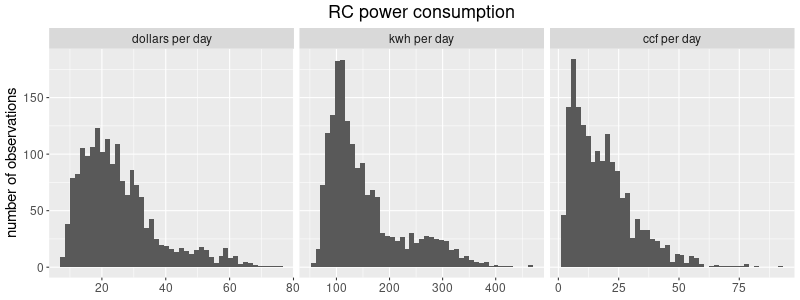
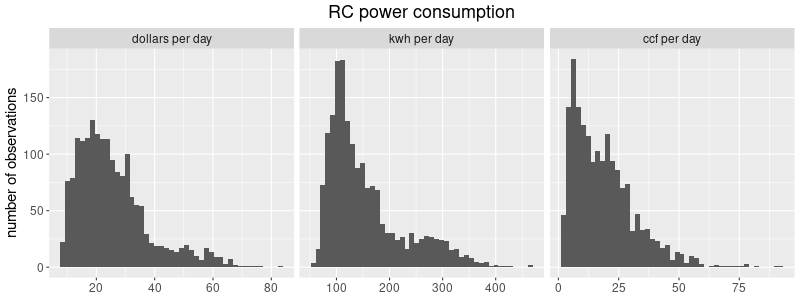
auto commit

diff --git a/index.html b/index.html
@@ -3,7 +3,7 @@
 "http://www.w3.org/TR/xhtml1/DTD/xhtml1-strict.dtd">
 <html xmlns="http://www.w3.org/1999/xhtml" lang="en" xml:lang="en">
 <head>
-<!-- 2023-01-16 Mon 05:14 -->
+<!-- 2023-03-19 Sun 05:24 -->
 <meta http-equiv="Content-Type" content="text/html;charset=utf-8" />
 <meta name="viewport" content="width=device-width, initial-scale=1" />
 <title>Chapin Mill Energy</title>
@@ -193,38 +193,49 @@
     { background-color: #ffff00; color: #000000; font-weight: bold; }
   .org-svg { }
 </style>
-<script type="text/x-mathjax-config">
-    MathJax.Hub.Config({
-        displayAlign: "center",
-        displayIndent: "0em",
-
-        "HTML-CSS": { scale: 100,
-                        linebreaks: { automatic: "false" },
-                        webFont: "TeX"
-                       },
-        SVG: {scale: 100,
-              linebreaks: { automatic: "false" },
-              font: "TeX"},
-        NativeMML: {scale: 100},
-        TeX: { equationNumbers: {autoNumber: "AMS"},
-               MultLineWidth: "85%",
-               TagSide: "right",
-               TagIndent: ".8em"
-             }
-});
+<script>
+  window.MathJax = {
+    tex: {
+      ams: {
+        multlineWidth: '85%'
+      },
+      tags: 'ams',
+      tagSide: 'right',
+      tagIndent: '.8em'
+    },
+    chtml: {
+      scale: 1.0,
+      displayAlign: 'center',
+      displayIndent: '0em'
+    },
+    svg: {
+      scale: 1.0,
+      displayAlign: 'center',
+      displayIndent: '0em'
+    },
+    output: {
+      font: 'mathjax-modern',
+      displayOverflow: 'overflow'
+    }
+  };
 </script>
-<script src="https://cdnjs.cloudflare.com/ajax/libs/mathjax/2.7.0/MathJax.js?config=TeX-AMS_HTML"></script>
+
+<script
+  id="MathJax-script"
+  async
+  src="https://cdn.jsdelivr.net/npm/mathjax@3/es5/tex-mml-chtml.js">
+</script>
 </head>
 <body>
 <div id="content" class="content">
 <h1 class="title">Chapin Mill Energy</h1>
-<div id="outline-container-org8f8fd15" class="outline-2">
-<h2 id="org8f8fd15">Energy Comparisons</h2>
-<div class="outline-text-2" id="text-org8f8fd15">
+<div id="outline-container-org00c6984" class="outline-2">
+<h2 id="org00c6984">Energy Comparisons</h2>
+<div class="outline-text-2" id="text-org00c6984">
 </div>
-<div id="outline-container-org07033db" class="outline-3">
-<h3 id="org07033db">Energy Consumption and Weather</h3>
-<div class="outline-text-3" id="text-org07033db">
+<div id="outline-container-org66fa080" class="outline-3">
+<h3 id="org66fa080">Energy Consumption and Weather</h3>
+<div class="outline-text-3" id="text-org66fa080">
 <p>
 The plot below describes outdoor air temperatures and the rate of
 retreat center energy consumption for the past few months. These
@@ -261,7 +272,7 @@ energy consumption.
 </p>
 
 
-<div id="org68b28ba" class="figure">
+<div id="orgafc4468" class="figure">
 <p><img src="energy.png" alt="energy.png" />
 </p>
 </div>
@@ -277,7 +288,7 @@ patterns.
 </p>
 
 
-<div id="org18c377b" class="figure">
+<div id="org1c6e862" class="figure">
 <p><img src="dollars.png" alt="dollars.png" />
 </p>
 </div>
@@ -292,17 +303,17 @@ dollar cost&#x2014;over all times of the year and over all events.
 </p>
 
 
-<div id="org37048b6" class="figure">
+<div id="org192cf7a" class="figure">
 <p><img src="hist.png" alt="hist.png" />
 </p>
 </div>
 
 <p>
 To be slightly more precise, 95% of the time the observed
-electricity power consumption was less than <code>308</code>
+electricity power consumption was less than <code>309</code>
 kWh per day, gas consumption was less than
 <code>44</code> hundred cubic feet per day and the
-overall energy cost was less than <code>52</code> dollars per
+overall energy cost was less than <code>53</code> dollars per
 day.
 </p>
 
@@ -329,7 +340,7 @@ within 45 and 60 dollars.
 </p>
 
 
-<div id="orgc35cd0a" class="figure">
+<div id="orge03089d" class="figure">
 <p><img src="regime.png" alt="regime.png" />
 </p>
 </div>
@@ -359,7 +370,7 @@ heated for sesshin setup.)
 </p>
 
 
-<div id="orgaef9295" class="figure">
+<div id="orgcb1e5f9" class="figure">
 <p><img src="energy2.png" alt="energy2.png" />
 </p>
 </div>
@@ -375,7 +386,7 @@ value is the average of the temperature readings over that period.
 </p>
 
 
-<div id="org434cfd2" class="figure">
+<div id="orgb5bf912" class="figure">
 <p><img src="scatter.png" alt="scatter.png" />
 </p>
 </div>
@@ -389,9 +400,9 @@ the results would not be very interesting.
 </div>
 </div>
 
-<div id="outline-container-orga3ed8e0" class="outline-3">
-<h3 id="orga3ed8e0">Natural gas</h3>
-<div class="outline-text-3" id="text-orga3ed8e0">
+<div id="outline-container-orgfc70ff1" class="outline-3">
+<h3 id="orgfc70ff1">Natural gas</h3>
+<div class="outline-text-3" id="text-orgfc70ff1">
 <p>
 For a given level of occupancy of the retreat center it would be
 natural to consider gas consumption as consisting of two parts:
@@ -423,7 +434,7 @@ scaling factors relate gas consumption in ccf (100s of cubic feet)
 per day to degrees Fahrenheit. 95% confidence intervals are
 </p>
 
-<div id="anyzsqsvoc" style="padding-left:0px;padding-right:0px;padding-top:10px;padding-bottom:10px;overflow-x:auto;overflow-y:auto;width:auto;height:auto;">
+<div id="cpznkwzumz" style="padding-left:0px;padding-right:0px;padding-top:10px;padding-bottom:10px;overflow-x:auto;overflow-y:auto;width:auto;height:auto;">
 
   <table class="gt_table" style="font-family: -apple-system, BlinkMacSystemFont, 'Segoe UI', Roboto, Oxygen, Ubuntu, Cantarell, 'Helvetica Neue', 'Fira Sans', 'Droid Sans', Arial, sans-serif; display: table; border-collapse: collapse; margin-left: auto; margin-right: auto; color: #333333; font-size: 16px; font-weight: normal; font-style: normal; background-color: #FFFFFF; width: auto; border-top-style: solid; border-top-width: 2px; border-top-color: #A8A8A8; border-right-style: none; border-right-width: 2px; border-right-color: #D3D3D3; border-bottom-style: solid; border-bottom-width: 2px; border-bottom-color: #A8A8A8; border-left-style: none; border-left-width: 2px; border-left-color: #D3D3D3;" bgcolor="#FFFFFF">
   <thead class="gt_header">
@@ -491,16 +502,16 @@ predictions for times that are either idle, sesshin, SIMT or UR.)
 </p>
 
 
-<div id="org20bec75" class="figure">
+<div id="org3edb2e4" class="figure">
 <p><img src="diagnostic.png" alt="diagnostic.png" />
 </p>
 </div>
 </div>
 </div>
 
-<div id="outline-container-orgc76a65a" class="outline-3">
-<h3 id="orgc76a65a">Electricity</h3>
-<div class="outline-text-3" id="text-orgc76a65a">
+<div id="outline-container-org8feaf35" class="outline-3">
+<h3 id="org8feaf35">Electricity</h3>
+<div class="outline-text-3" id="text-org8feaf35">
 <p>
 For the period under consideration electricity usage did not vary
 with outside air temperature in a significant way. The data only
@@ -508,7 +519,7 @@ established separate estimates of electricity consumption in kWh
 per day for idle and occupied periods.
 </p>
 
-<div id="gglihdkzpj" style="padding-left:0px;padding-right:0px;padding-top:10px;padding-bottom:10px;overflow-x:auto;overflow-y:auto;width:auto;height:auto;">
+<div id="gkaihqiehp" style="padding-left:0px;padding-right:0px;padding-top:10px;padding-bottom:10px;overflow-x:auto;overflow-y:auto;width:auto;height:auto;">
 
   <table class="gt_table" style="font-family: -apple-system, BlinkMacSystemFont, 'Segoe UI', Roboto, Oxygen, Ubuntu, Cantarell, 'Helvetica Neue', 'Fira Sans', 'Droid Sans', Arial, sans-serif; display: table; border-collapse: collapse; margin-left: auto; margin-right: auto; color: #333333; font-size: 16px; font-weight: normal; font-style: normal; background-color: #FFFFFF; width: auto; border-top-style: solid; border-top-width: 2px; border-top-color: #A8A8A8; border-right-style: none; border-right-width: 2px; border-right-color: #D3D3D3; border-bottom-style: solid; border-bottom-width: 2px; border-bottom-color: #A8A8A8; border-left-style: none; border-left-width: 2px; border-left-color: #D3D3D3;" bgcolor="#FFFFFF">
   <thead class="gt_header">
@@ -569,9 +580,9 @@ dollars respectively.
 </div>
 </div>
 
-<div id="outline-container-org6851d23" class="outline-2">
-<h2 id="org6851d23">Summary of Rental Impact</h2>
-<div class="outline-text-2" id="text-org6851d23">
+<div id="outline-container-org666b05a" class="outline-2">
+<h2 id="org666b05a">Summary of Rental Impact</h2>
+<div class="outline-text-2" id="text-org666b05a">
 <p>
 Taking a SIMT retreat to be typical of renters in general and
 assuming the usual costs for gas and electricity
@@ -599,9 +610,9 @@ The corresponding values for idle times are <code>29</code> ccf
 </div>
 </div>
 
-<div id="outline-container-orgfd350f9" class="outline-2">
-<h2 id="orgfd350f9">Details</h2>
-<div class="outline-text-2" id="text-orgfd350f9">
+<div id="outline-container-orgb56e909" class="outline-2">
+<h2 id="orgb56e909">Details</h2>
+<div class="outline-text-2" id="text-orgb56e909">
 <p>
 The natural gas model is
 \[
@@ -652,7 +663,7 @@ The &alpha; parameter estimates and their standard errors look as
 follows:
 </p>
 
-<div id="hjwjpwawcb" style="padding-left:0px;padding-right:0px;padding-top:10px;padding-bottom:10px;overflow-x:auto;overflow-y:auto;width:auto;height:auto;">
+<div id="jaupquxsbi" style="padding-left:0px;padding-right:0px;padding-top:10px;padding-bottom:10px;overflow-x:auto;overflow-y:auto;width:auto;height:auto;">
 
   <table class="gt_table" style="font-family: -apple-system, BlinkMacSystemFont, 'Segoe UI', Roboto, Oxygen, Ubuntu, Cantarell, 'Helvetica Neue', 'Fira Sans', 'Droid Sans', Arial, sans-serif; display: table; border-collapse: collapse; margin-left: auto; margin-right: auto; color: #333333; font-size: 16px; font-weight: normal; font-style: normal; background-color: #FFFFFF; width: auto; border-top-style: solid; border-top-width: 2px; border-top-color: #A8A8A8; border-right-style: none; border-right-width: 2px; border-right-color: #D3D3D3; border-bottom-style: solid; border-bottom-width: 2px; border-bottom-color: #A8A8A8; border-left-style: none; border-left-width: 2px; border-left-color: #D3D3D3;" bgcolor="#FFFFFF">
   <thead class="gt_header">
@@ -721,7 +732,7 @@ where \(y\) is electricity consumption in kWh per day and the
 \(\epsilon\) are error.  The estimates and errors are:
 </p>
 
-<div id="zsmodofjxc" style="padding-left:0px;padding-right:0px;padding-top:10px;padding-bottom:10px;overflow-x:auto;overflow-y:auto;width:auto;height:auto;">
+<div id="zrjnsfvbhl" style="padding-left:0px;padding-right:0px;padding-top:10px;padding-bottom:10px;overflow-x:auto;overflow-y:auto;width:auto;height:auto;">
 
   <table class="gt_table" style="font-family: -apple-system, BlinkMacSystemFont, 'Segoe UI', Roboto, Oxygen, Ubuntu, Cantarell, 'Helvetica Neue', 'Fira Sans', 'Droid Sans', Arial, sans-serif; display: table; border-collapse: collapse; margin-left: auto; margin-right: auto; color: #333333; font-size: 16px; font-weight: normal; font-style: normal; background-color: #FFFFFF; width: auto; border-top-style: solid; border-top-width: 2px; border-top-color: #A8A8A8; border-right-style: none; border-right-width: 2px; border-right-color: #D3D3D3; border-bottom-style: solid; border-bottom-width: 2px; border-bottom-color: #A8A8A8; border-left-style: none; border-left-width: 2px; border-left-color: #D3D3D3;" bgcolor="#FFFFFF">
   <thead class="gt_header">
@@ -769,7 +780,7 @@ where \(y\) is electricity consumption in kWh per day and the
 </div>
 </div>
 <div id="postamble" class="status">
-<p class="date">Created: 2023-01-16 Mon 05:14</p>
+<p class="date">Created: 2023-03-19 Sun 05:24</p>
 <p class="validation"><a href="https://validator.w3.org/check?uri=referer">Validate</a></p>
 </div>
 </body>
